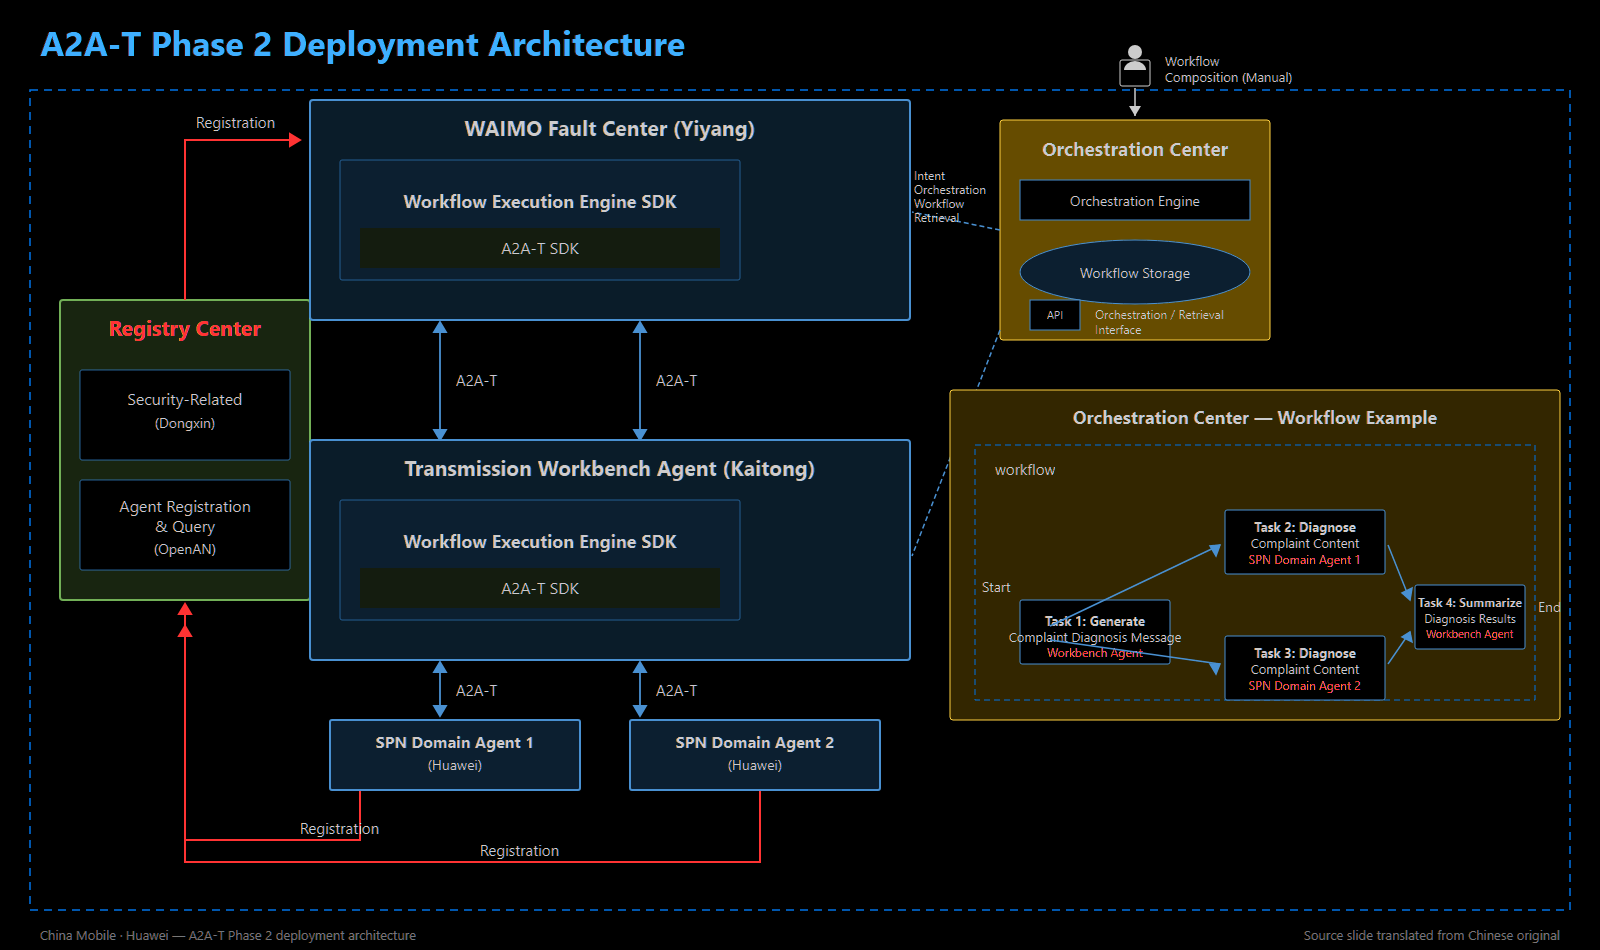
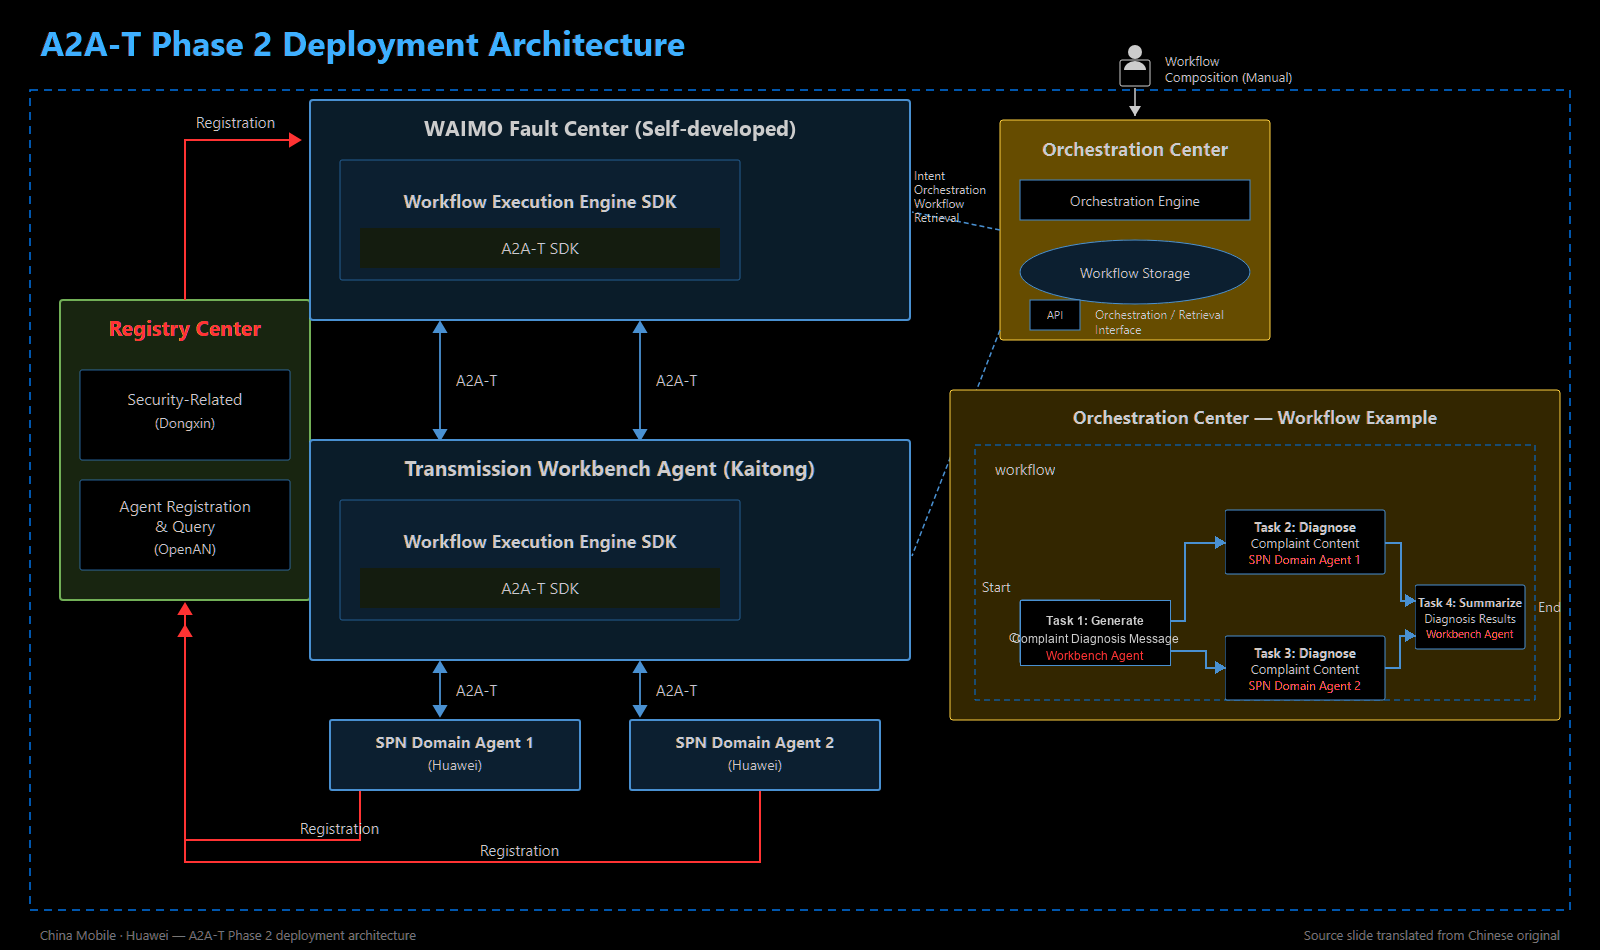
fix: correct Guangdong A2A-T diagrams

diff --git a/best-practices/guangdong-mobile-a2at-usecase.html b/best-practices/guangdong-mobile-a2at-usecase.html
@@ -128,7 +128,7 @@
 
   <div class="section">
     <h2>Overview</h2>
-    <p>China Mobile Guangdong and Huawei are jointly innovating on the <strong>A2A-T (Agent-to-Agent for Telecom)</strong> protocol — built on the OpenAN framework — to bring multi-agent collaboration into transmission-network operations. The pilot scenario is the <strong>SPN (Slicing Packet Network) dedicated-line complaint</strong>: when an enterprise customer's dedicated line degrades or fails, the complaint flows through the 10086 call center and the EMOS process center to the transmission workbench, and multiple agents must collaborate to locate and restore the fault.</p>
+    <p>China Mobile Guangdong and Huawei are jointly innovating on the <strong>A2A-T (Agent-to-Agent for Telecom)</strong> protocol — built on the OpenAN framework — to bring multi-agent collaboration into transmission-network operations. The pilot scenario is the <strong>SPN (Slicing Packet Network) dedicated-line complaint</strong>: when an enterprise customer's dedicated line degrades or fails, the complaint flows through the 10086 call center and the EOMS process center to the transmission workbench, and multiple agents must collaborate to locate and restore the fault.</p>
     <p>The joint innovation runs in two phases: <strong>Phase 1</strong> connects the single-city complaint diagnosis scenario and validates the A2A-T protocol's basic capabilities; <strong>Phase 2</strong> connects the full cross-city complaint process — service restoration, fault location, automatic repair and automatic closure — and validates the protocol's advanced capabilities, including Negotiation-T, Authorization-T and Notification-T.</p>
     <p>The Phase 1 results were co-released by China Mobile Guangdong and Huawei at <strong>DTW (Digital Transformation World)</strong>.</p>
   </div>
@@ -166,7 +166,7 @@
     <h2>Phase 2 Planning — Three-Layer Agent Collaboration, Full Complaint Process</h2>
     <p>Phase 2 targets the full cross-city SPN dedicated-line complaint process — service restoration, fault diagnosis, automatic repair and automatic closure — with joint debugging between WAIMO and the transmission workbench, leading to a joint release and results summary in October. The focus is on validating the A2A-T protocol's advantages in the end-to-end complaint flow: integration advantages, plus <strong>Negotiation-T</strong>, <strong>Authorization-T</strong> and <strong>Notification-T</strong>.</p>
     <figure class="figure">
-      <img src="images/gd_a2at_phase2_solution_design.png" alt="A2A-T Phase 2 overall solution design — fault diagnosis flow and service restoration flow across WAIMO, EMOS process center, transmission workbench and OMC system">
+      <img src="images/gd_a2at_phase2_solution_design.png" alt="A2A-T Phase 2 overall solution design — fault diagnosis flow and service restoration flow across WAIMO, EOMS process center, transmission workbench and OMC system">
       <figcaption>Phase 2 overall solution design — complaint, diagnosis, authorization and service-recovery notification flows across three collaborating agents</figcaption>
     </figure>
     <div class="outcome">
@@ -180,7 +180,7 @@
 
   <div class="section">
     <h2>Phase 2 Deployment Architecture</h2>
-    <p>The deployment brings together agents from multiple vendors over the A2A-T SDK: the <strong>WAIMO fault center agent (Yiyang)</strong> and the <strong>transmission workbench agent (Kaitong)</strong> each embed the workflow execution engine SDK with the A2A-T SDK, and collaborate downward with two <strong>SPN domain agents (Huawei)</strong>. All agents register with the Registry Center, while the orchestration center composes and retrieves workflows — for example: generate a complaint diagnosis message, diagnose the complaint content in parallel with two SPN domain agents, and summarize the diagnosis results.</p>
+    <p>The deployment brings together agents from multiple vendors over the A2A-T SDK: the <strong>WAIMO fault center agent (self-developed)</strong> and the <strong>transmission workbench agent (Kaitong)</strong> each embed the workflow execution engine SDK with the A2A-T SDK, and collaborate downward with two <strong>SPN domain agents (Huawei)</strong>. All agents register with the Registry Center, while the orchestration center composes and retrieves workflows — for example: generate a complaint diagnosis message, diagnose the complaint content in parallel with two SPN domain agents, and summarize the diagnosis results.</p>
     <figure class="figure">
       <img src="images/gd_a2at_phase2_arch_op_mode.png" alt="A2A-T Phase 2 deployment architecture in OP mode — WAIMO fault center, transmission workbench agent, SPN domain agents, registry center and orchestration center workflow">
       <figcaption>Phase 2 deployment architecture (OP mode) — vendor agents collaborating over A2A-T with centralized registration and workflow orchestration</figcaption>
